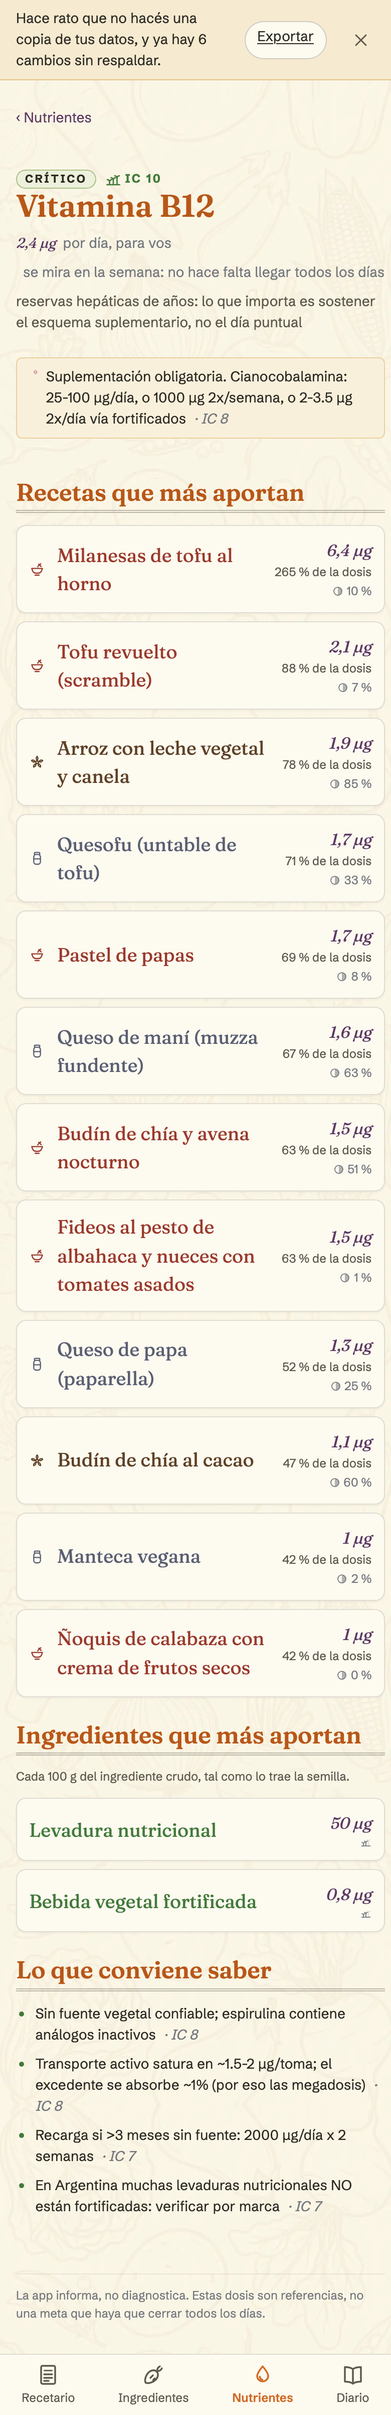
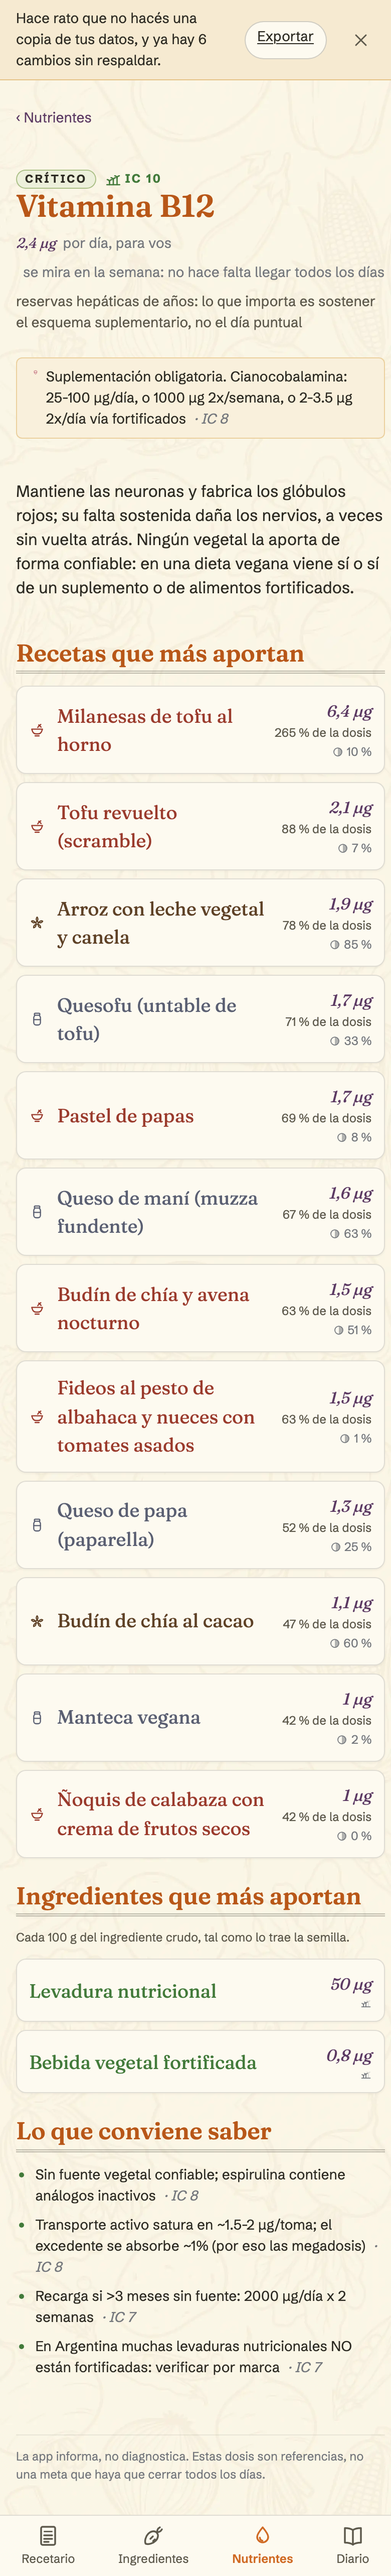
Regenerar los renders de la Fase 3 con la ficha de nutriente
Cambian nutriente-b12 (la descripción nueva) y diario (deriva de fechas
relativas del sembrado); el resto queda byte por byte igual. Suma la
lección de #115 a lessons.md.

diff --git a/lessons.md b/lessons.md
@@ -239,3 +239,21 @@ podía fallar: el motivo era correcto según su propia lógica.
   B12. **El contexto es parte del dato**, y una función de dominio que devuelve
   "el porcentaje" sin saber dónde se va a mostrar no puede protegerlo sola: por
   eso quedaron dos y no una con un flag.
+
+---
+
+## La ficha de nutriente dice qué es (2026-08-27, #115)
+
+- **Lo que el dataset nombra sin explicar, la UI lo hereda sin explicar.**
+  "Proteína (lisina)" se mostró dos fases tal cual venía; la explicación existía
+  pero repartida en prosa que había que inferir (`ajuste_vegano`,
+  `ventana_nota`). La destapó la pregunta real de un usuario ("¿mide lisina?").
+  El rol fisiológico de cada nutriente no estaba ni en el JSON ni en el `.md`:
+  entró curado (T10) desde las fichas NIH ODS que el dataset ya citaba como
+  fuentes.
+- **`npm run renders` renderiza el dist que haya, fresco o no.** El build falló
+  en `tsc` en el medio de una cadena con pipe (`npm run build | tail`), el pipe
+  se quedó con el exit de `tail`, y los renders corrieron igual — contra un
+  bundle sin el cambio. Se notó porque el error de tipos pasó rozando por
+  pantalla. Guardas baratas: chequear el exit sin pipe, y que el script avise si
+  `dist/` es más viejo que la semilla o `src/`.
